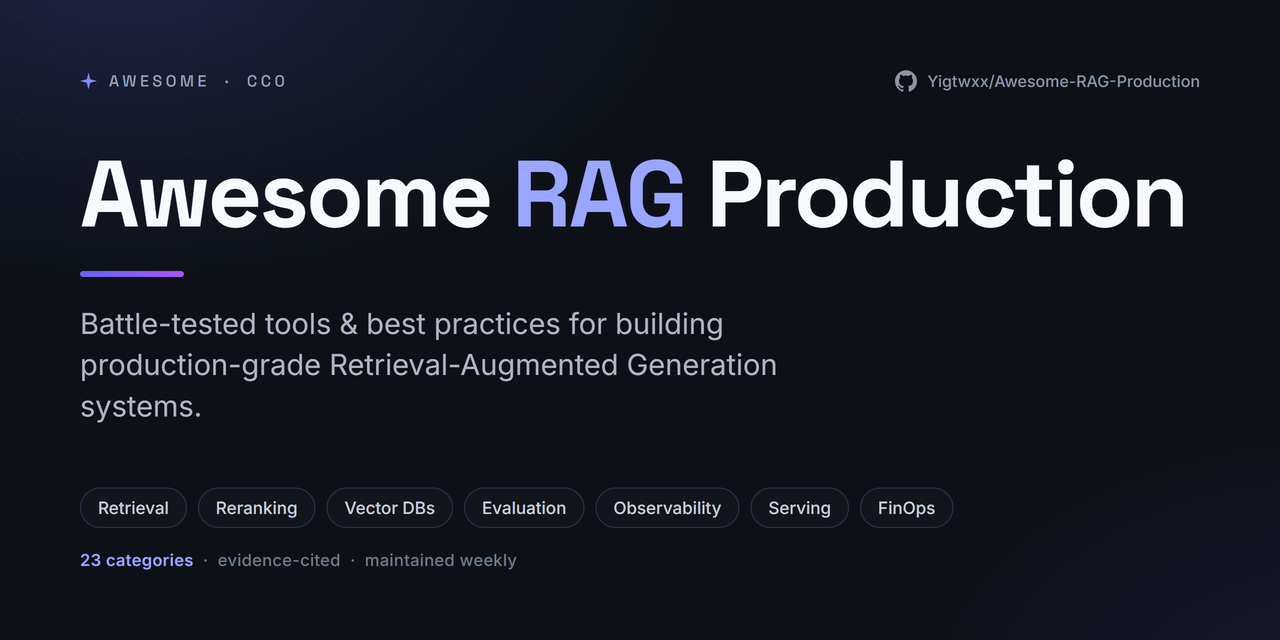
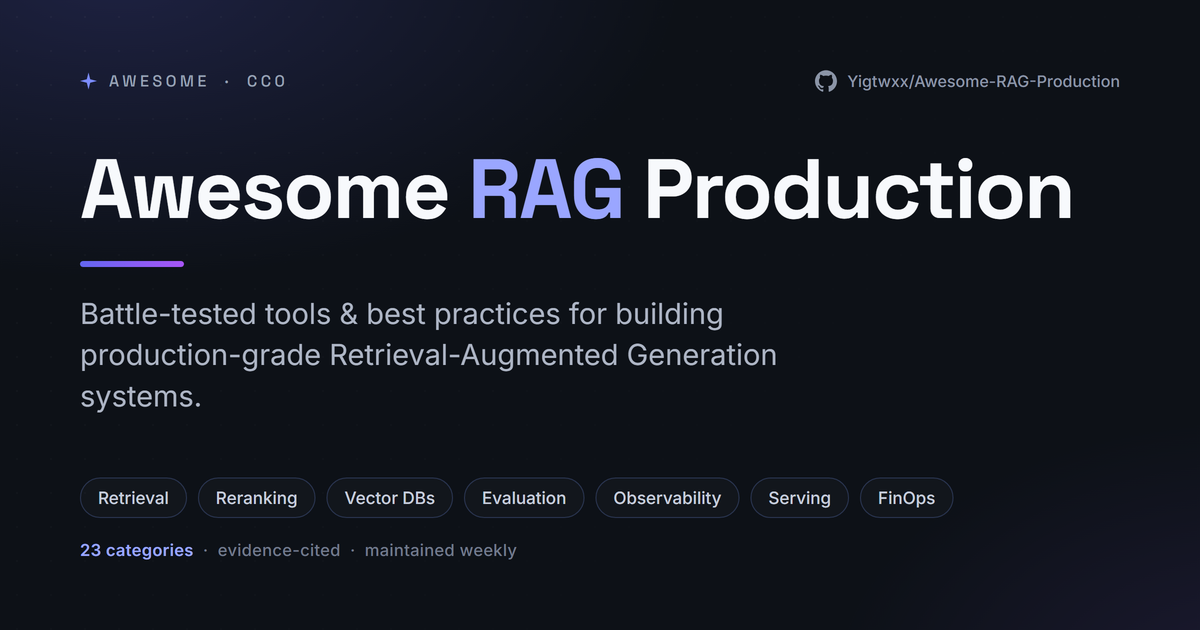
chore(branding): resize social preview to 1200x630 (1.91:1)
Switch the social card from 1280x640 (2:1) to the universal 1.91:1 OG
ratio so link unfurlers (Facebook/LinkedIn/X) stop flagging the aspect
ratio and render it without crop/letterbox. Title nudged to fit one line.

diff --git a/assets/social/social-preview.html b/assets/social/social-preview.html
@@ -4,7 +4,7 @@
 <meta charset="utf-8">
 <!--
   Source for the GitHub repo "Social preview" card (Settings → Social preview).
-  Render to a crisp 1280×640 PNG with: assets/social/render.ps1
+  Render to a crisp 1200×630 PNG (1.91:1) with: assets/social/render.ps1
   Design: dark / minimal — strong typography + indigo accent (concept A).
 -->
 <link rel="preconnect" href="https://fonts.googleapis.com">
@@ -12,12 +12,12 @@
 <link href="https://fonts.googleapis.com/css2?family=Space+Grotesk:wght@500;700&family=Inter:wght@400;500;600&display=block" rel="stylesheet">
 <style>
   * { margin: 0; padding: 0; box-sizing: border-box; }
-  html, body { width: 1280px; height: 640px; background: #0d1117; }
+  html, body { width: 1200px; height: 630px; background: #0d1117; }
 
   .card {
     position: relative;
-    width: 1280px;
-    height: 640px;
+    width: 1200px;
+    height: 630px;
     overflow: hidden;
     background:
       radial-gradient(940px 520px at 10% -5%, rgba(99,102,241,0.20), transparent 60%),
@@ -63,8 +63,8 @@
   .hero { margin-top: -6px; }
   .title {
     font-family: 'Space Grotesk', sans-serif;
-    font-weight: 700; font-size: 94px; line-height: 1.0;
-    letter-spacing: -2.5px; color: #f7f9fc;
+    font-weight: 700; font-size: 84px; line-height: 1.0;
+    letter-spacing: -2px; color: #f7f9fc; white-space: nowrap;
   }
   .title .accent { color: #9aa6ff; }
   .accent-bar {
